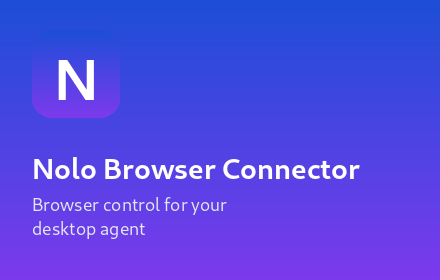
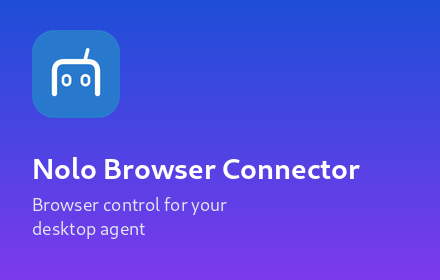
chore: sync open-source public projection 2026-09-16
Generated by syncNoloOpenSourceMirror.sh from bun-nolo.
Projection gate: 0 violations (PASS).

Source-Commit: 24889bb3fb4bd4483f09410143dce5631409e3bb

Changed region(s): [[0.0591, 0.0857, 0.2955, 0.4286]]

diff --git a/packages/desktop-chrome-connector/extension/popup.js b/packages/desktop-chrome-connector/extension/popup.js
@@ -2,8 +2,11 @@
  * Toolbar popup. It answers one question for the user: is this extension connected to the Nolo
  * Desktop app on this computer, and which protocol version are they on?
  *
- * It reads no page data and performs no actions.
+ * Every string comes from `_locales` so the popup follows the browser language; the literals here are
+ * only fallbacks for a missing key. The popup reads no page data and performs no actions.
  */
+const t = (key, fallback) => chrome.i18n.getMessage(key) || fallback;
+
 const dot = document.getElementById("dot");
 const state = document.getElementById("state");
 const hint = document.getElementById("hint");
@@ -11,12 +14,24 @@ const host = document.getElementById("host");
 const protocol = document.getElementById("protocol");
 const version = document.getElementById("version");
 
+document.getElementById("title").textContent = t("extName", "Nolo Browser Connector");
+document.getElementById("label-desktop-app").textContent = t("popupDesktopApp", "Desktop app");
+document.getElementById("label-protocol").textContent = t("popupProtocol", "Protocol");
+document.getElementById("label-extension").textContent = t("popupExtensionVersion", "Extension");
+document.getElementById("privacy").textContent = t(
+  "popupPrivacy",
+  "Page reads and actions run through Nolo Desktop. Cookies, passwords and profile databases are never read.",
+);
+// Shown until the status round-trip answers, so the popup never renders an empty line.
+state.textContent = t("popupChecking", "Checking…");
+
 function renderDisconnected(reason) {
   dot.className = "dot off";
-  state.textContent = "Not connected";
-  hint.textContent =
-    reason ||
-    "Open Nolo Desktop on this computer and enable the Chrome connector, then reopen this popup.";
+  state.textContent = t("popupDisconnected", "Not connected");
+  hint.textContent = reason || t(
+    "popupDisconnectedHint",
+    "Open Nolo Desktop on this computer and enable the Chrome connector, then reopen this popup.",
+  );
 }
 
 async function render() {
@@ -27,13 +42,13 @@ async function render() {
     protocol.textContent = status?.protocolVersion || "—";
     if (status?.connected) {
       dot.className = "dot ok";
-      state.textContent = "Connected to Nolo Desktop";
-      hint.textContent = "Your desktop agent can work in the tabs you ask about.";
+      state.textContent = t("popupConnected", "Connected to Nolo Desktop");
+      hint.textContent = t("popupConnectedHint", "Your desktop agent can work in the tabs you ask about.");
       return;
     }
     renderDisconnected();
   } catch (error) {
-    renderDisconnected(`Could not read connector status: ${error?.message ?? error}`);
+    renderDisconnected(chrome.i18n.getMessage("popupStatusError", [String(error?.message ?? error)]));
   }
 }
 

diff --git a/packages/desktop-chrome-connector/extension/background.js b/packages/desktop-chrome-connector/extension/background.js
@@ -12,6 +12,7 @@ import {
   decideIrreversibleAction,
   deserializeOpenedTabs,
   isActivationKey,
+  isProtectedPageUrl,
   normalizeTabId,
   resolveActionTarget,
   serializeOpenedTabs,
@@ -43,12 +44,33 @@ function tabTarget(tabId) {
 }
 
 async function executeInTab(tabId, func, args = []) {
+  await assertScriptableTab(tabId);
   const [result] = await chrome.scripting.executeScript({
     target: tabTarget(tabId),
     func,
     args,
   });
   return result?.result;
+}
+
+/**
+ * Chrome answers "The extensions gallery cannot be scripted" for its own UI and the Web Store.
+ * Detecting it up front turns an opaque failure into something the model can act on: ask the user.
+ */
+async function assertScriptableTab(tabId) {
+  let url = "";
+  try {
+    const tab = await chrome.tabs.get(Number(tabId));
+    url = typeof tab?.url === "string" ? tab.url : "";
+  } catch {
+    return; // A missing tab is reported by the script call itself.
+  }
+  if (isProtectedPageUrl(url)) {
+    throw connectorError(
+      PROTECTED_PAGE_CODE,
+      `Chrome does not allow scripts on this page (${url.split("?")[0].slice(0, 80)}), so it cannot be read or operated automatically. Ask the user to look at it or act on it.`,
+    );
+  }
 }
 
 function pushBounded(store, tabId, entry, cap) {
@@ -682,6 +704,17 @@ async function runTargetedAction(action, payload) {
   try {
     result = await executeInTab(payload.tabId, pageOperation, [pageArgs]);
   } catch (error) {
+    if (error?.code === PROTECTED_PAGE_CODE) {
+      return {
+        ok: false,
+        verified: false,
+        effect: "failed",
+        action,
+        signal: PROTECTED_PAGE_CODE,
+        message: toMessage(error),
+        ...resolveExtra,
+      };
+    }
     refRegistry.invalidate(tabId);
     return verdictEnvelope(
       action,
@@ -853,6 +886,21 @@ async function handleAction(action, payload = {}) {
       openedTabs.remove(requested);
       await persistOpenedTabs();
       return { ok: true, closed, openedByConnector };
+    }
+    case "reload_extension": {
+      /**
+       * Host-only action (never a model-visible tool). On an unpacked install Chrome only re-reads the
+       * extension's files when the service worker restarts, so the desktop app would otherwise have to
+       * ask the user to click Reload in chrome://extensions. Answer first, then reload on the next tick.
+       */
+      setTimeout(() => {
+        try {
+          chrome.runtime.reload();
+        } catch (error) {
+          console.warn(`[nolo chrome connector] self reload skipped: ${toMessage(error)}`);
+        }
+      }, 400);
+      return { ok: true, reloading: true };
     }
     case "detach": {
       // Internal action: not model-visible, and never fatal when nothing is attached.

diff --git a/packages/desktop-chrome-connector/extension/compactObservation.js b/packages/desktop-chrome-connector/extension/compactObservation.js
@@ -9,6 +9,36 @@
 
 export const CONNECTOR_PROTOCOL_VERSION = "2";
 
+/** Chrome refuses script injection into its own UI and the Web Store; say so instead of failing oddly. */
+export const PROTECTED_PAGE_CODE = "PROTECTED_PAGE";
+
+const PROTECTED_URL_PREFIXES = Object.freeze([
+  "chrome://",
+  "chrome-untrusted://",
+  "chrome-search://",
+  "chrome-extension://",
+  "devtools://",
+  "edge://",
+  "about:",
+  "view-source:",
+  "https://chrome.google.com/webstore",
+  "https://chromewebstore.google.com",
+]);
+
+/**
+ * Chrome refuses script injection into its own UI, the Web Store and other browser-owned origins.
+ *
+ * `file://` and `data:` are deliberately absent: a file page fails because the extension has no file
+ * access (and enabling it is the user's choice), and `data:` URLs are not navigable tabs here. Both
+ * report their own, more specific error, so calling them "protected" would be misleading.
+ */
+
+export function isProtectedPageUrl(url) {
+  const value = typeof url === "string" ? url.trim().toLowerCase() : "";
+  if (!value) return false;
+  return PROTECTED_URL_PREFIXES.some((prefix) => value.startsWith(prefix));
+}
+
 /**
  * Feature names are part of the wire contract between the extension and the desktop app: a published
  * name is never reused or redefined, and unknown names are ignored by the reader. Additive evolution

diff --git a/packages/desktop-chrome-connector/extension/popup.html b/packages/desktop-chrome-connector/extension/popup.html
@@ -1,5 +1,5 @@
 <!doctype html>
-<html lang="en">
+<html>
   <head>
     <meta charset="utf-8" />
     <title>Nolo Browser Connector</title>
@@ -69,18 +69,19 @@
     </style>
   </head>
   <body>
-    <h1>Nolo Browser Connector</h1>
-    <div class="state"><span class="dot" id="dot"></span><span id="state">Checking…</span></div>
+    <!-- All text comes from _locales via popup.js, so the popup follows the browser language. -->
+    <h1 id="title"></h1>
+    <div class="state"><span class="dot" id="dot"></span><span id="state"></span></div>
     <p id="hint"></p>
     <dl>
-      <dt>Desktop app</dt>
+      <dt id="label-desktop-app"></dt>
       <dd id="host">—</dd>
-      <dt>Protocol</dt>
+      <dt id="label-protocol"></dt>
       <dd id="protocol">—</dd>
-      <dt>Extension</dt>
+      <dt id="label-extension"></dt>
       <dd id="version">—</dd>
     </dl>
-    <footer>Page reads and actions run through Nolo Desktop. Cookies, passwords and profile databases are never read.</footer>
+    <footer id="privacy"></footer>
     <script src="popup.js"></script>
   </body>
 </html>

diff --git a/packages/desktop-chrome-connector/scripts/reloadExtension.ts b/packages/desktop-chrome-connector/scripts/reloadExtension.ts
@@ -1,0 +1,23 @@
+#!/usr/bin/env bun
+/**
+ * Reloads the running (unpacked) Nolo Browser Connector extension through the connector itself.
+ *
+ * Chrome only re-reads an unpacked extension's files when its service worker restarts, and the native
+ * messaging port keeps that worker alive — so after changing extension code you need a reload. This
+ * script asks the extension to do it: no clicking in chrome://extensions.
+ *
+ * Usage: bun packages/desktop-chrome-connector/scripts/reloadExtension.ts
+ */
+import { createChromeConnectorClient } from "../chromeConnector";
+
+const client = createChromeConnectorClient();
+
+try {
+  const result = await client.request("reload_extension", {});
+  console.log(`[reload-extension] requested: ${JSON.stringify(result)}`);
+  console.log("[reload-extension] the worker restarts within ~1s; verify with a connector_info call");
+} catch (error) {
+  const typed = error as Error & { code?: string };
+  console.error(`[reload-extension] failed: ${typed.code ?? ""} ${typed.message}`);
+  process.exit(1);
+}

diff --git a/packages/desktop/CHANGELOG.md b/packages/desktop/CHANGELOG.md
@@ -1,4 +1,17 @@
 
+## 0.94.0-alpha.1
+
+## 0.94.0-alpha.1 (2026-09-16)
+
+### Features
+
+* **desktop:** self-reload the unpacked extension and localise its surface ([403d355](https://github.com/nolotus/bun-nolo/commit/403d35595f66c7b9e8f5ac69b8019009f83da2cd))
+
+### Bug Fixes
+
+* **desktop:** name protected pages and reuse the shipped brand icons ([d184770](https://github.com/nolotus/bun-nolo/commit/d1847701792febda93f7536db34b57c99a1f78dd))
+
+
 ## 0.93.0-alpha.1
 
 ## 0.93.0-alpha.1 (2026-09-16)

diff --git a/packages/desktop-chrome-connector/store/listing.md b/packages/desktop-chrome-connector/store/listing.md
@@ -10,8 +10,12 @@ add the Simplified Chinese translation as a second locale.
 ## Name (both locales)
 
 ```text
-Nolo Browser Connector
+English:  Nolo Browser Connector
+中文:      Nolo 浏览器连接器
 ```
+
+The Chinese name must match `_locales/zh_CN/messages.json` (`extName`) so the store listing and the
+extension name a Chinese user sees in `chrome://extensions` are the same string.
 
 ## Short description (max 132 characters)
 
